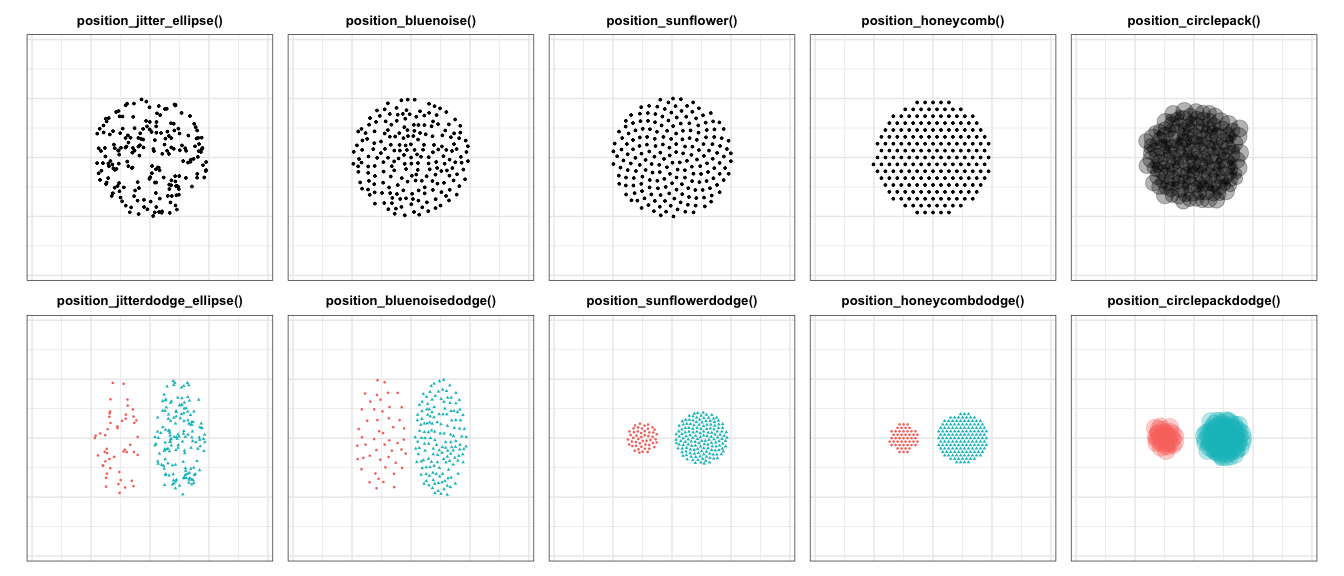
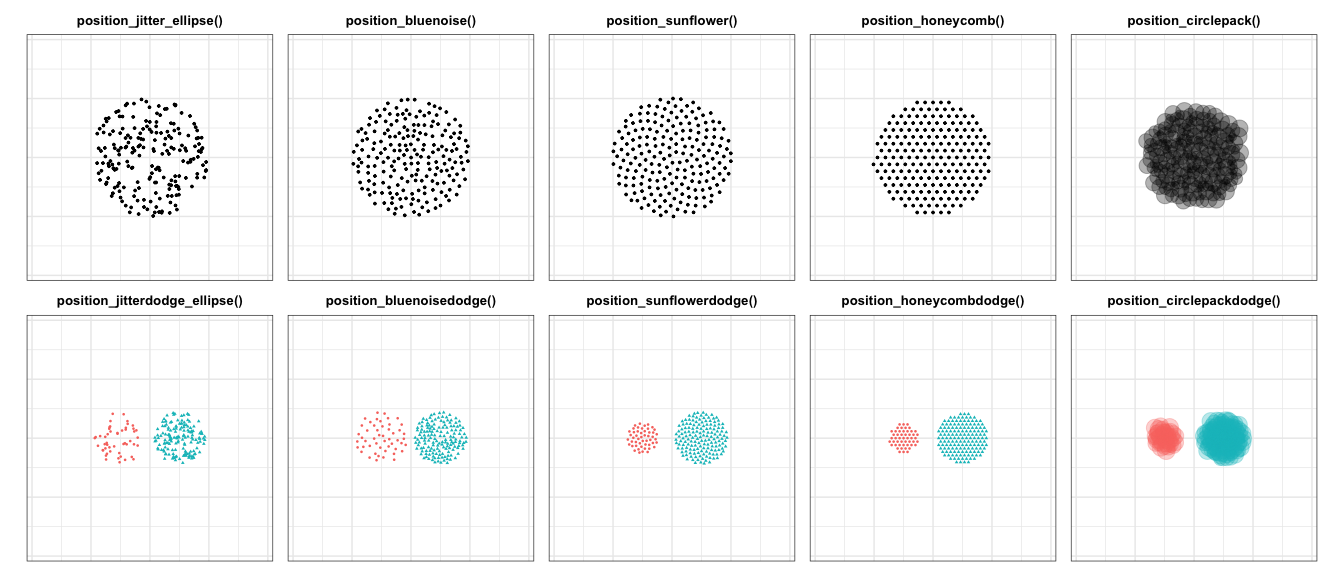
Make the two dodged jitter panels round in the README figure
position_jitterdodge_ellipse() and position_bluenoisedodge() were drawn with a
field 0.22 wide and 0.5 tall, so under coord_equal() they rendered as tall ovals
next to eight round panels. Both fields are now square.

Changed region(s): [[0.0625, 0.6875, 0.1562, 0.8438], [0.25, 0.6562, 0.3438, 0.8438]]

diff --git a/README.md b/README.md
@@ -118,9 +118,9 @@ top <-
   plot_layout(nrow = 1)
 
 bottom <-
-  (grouped + geom_point(position = position_jitterdodge_ellipse(0.22, 0.5, 1), size = 0.6) +
+  (grouped + geom_point(position = position_jitterdodge_ellipse(0.22, 0.22, 1), size = 0.6) +
      ggtitle("position_jitterdodge_ellipse()")) +
-  (grouped + geom_point(position = position_bluenoisedodge(0.22, 0.5, 1), size = 0.6) +
+  (grouped + geom_point(position = position_bluenoisedodge(0.22, 0.22, 1), size = 0.6) +
      ggtitle("position_bluenoisedodge()")) +
   (grouped + geom_point(position = position_sunflowerdodge(1, density = 4 * d), size = 0.6) +
      ggtitle("position_sunflowerdodge()")) +
